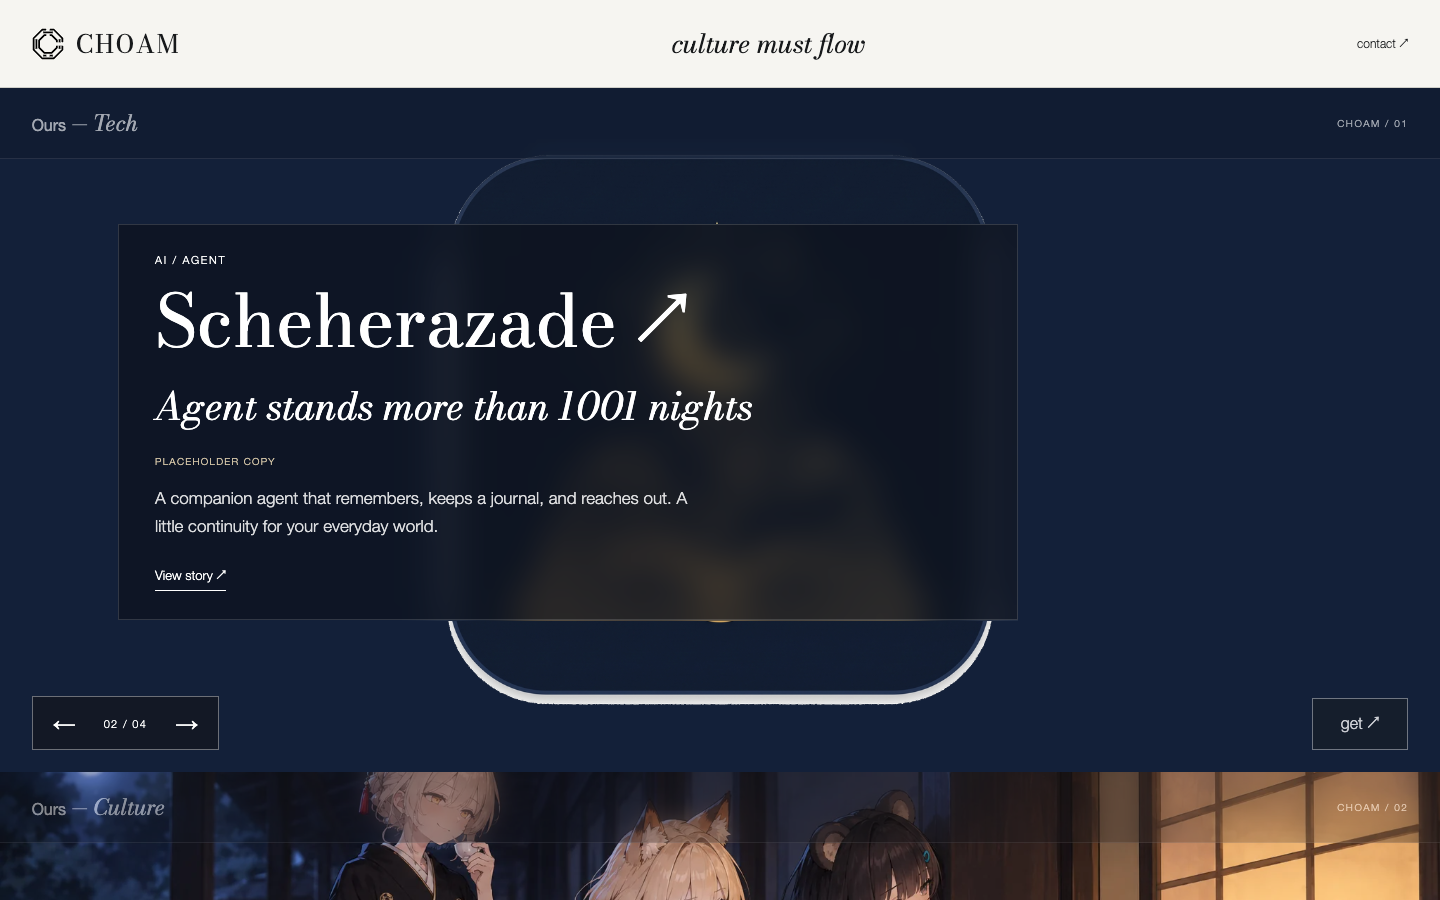
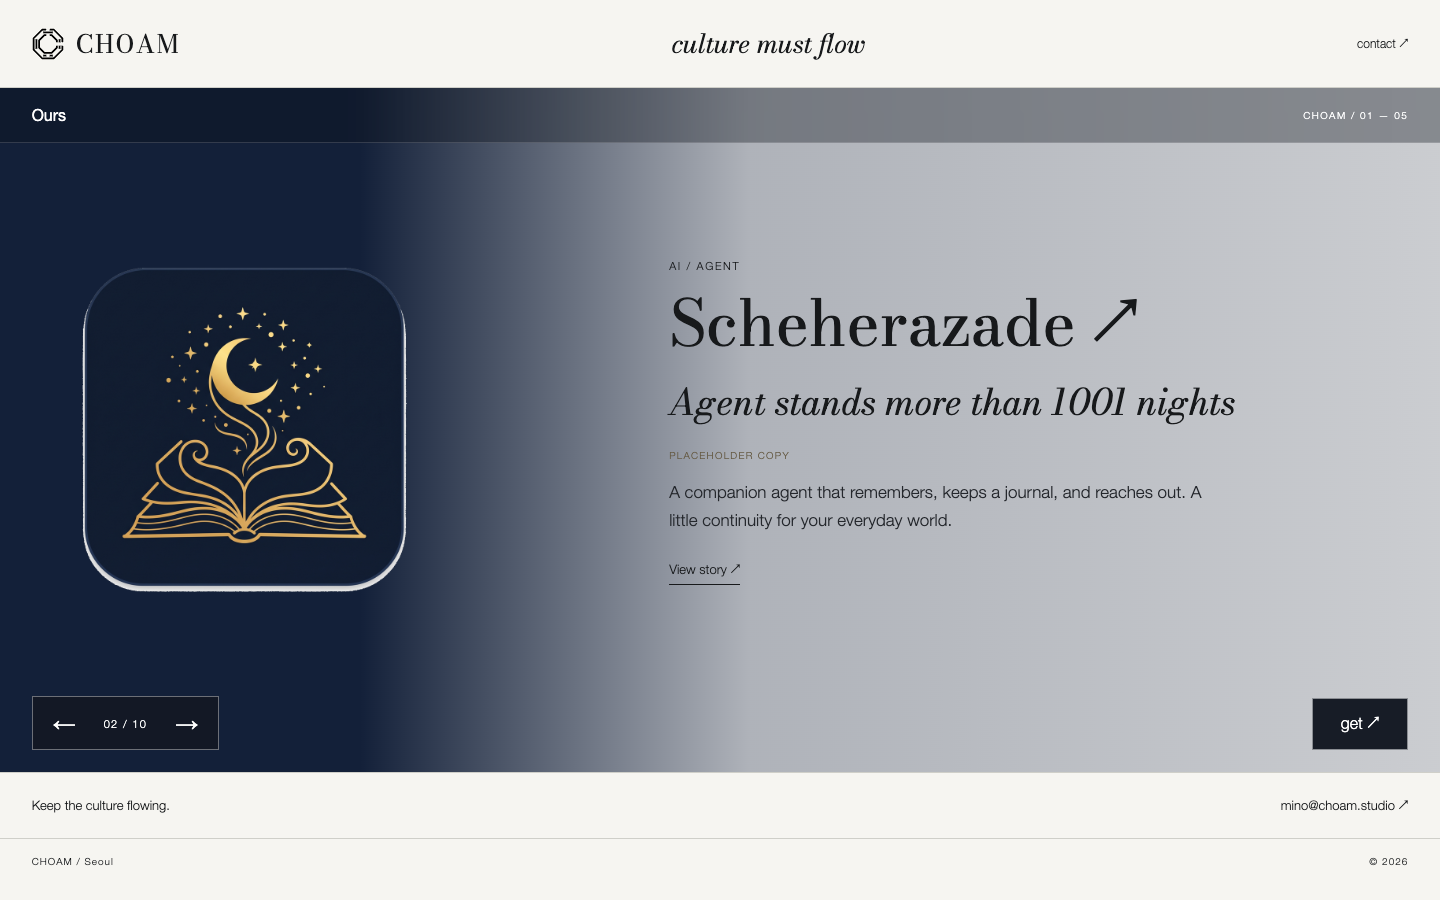
Unify Ours gallery and animate Scheherazade gradient story

diff --git a/index.html b/index.html
@@ -1,1 +1,1 @@
-<!doctype html><html lang="en"><head><meta charset="utf-8"><meta name="viewport" content="width=device-width,initial-scale=1"><title>CHOAM</title><meta name="description" content="culture must flow"><link rel="icon" href="assets/mark.svg"><link href="https://fonts.googleapis.com/css2?family=Bodoni+Moda:ital,wght@0,400;1,400&display=swap" rel="stylesheet"><link rel="stylesheet" href="style.css"></head><body><header class="bar"><a class="brand" href="./" aria-label="CHOAM home"><img src="assets/mark.svg" alt=""><span>CHOAM</span></a><p>culture must flow</p><a class="index-link" href="#contact">contact ↗</a></header><main id="ours"><section class="gallery" aria-label="Ours — Tech"><div class="gallery-heading"><h2>Ours <i>— Tech</i></h2><span>CHOAM / 01</span></div><div class="gallery-stage"><div class="track" tabindex="0" aria-label="Tech gallery. Use left and right arrow keys"><article class="panel art scheherazade" data-project="scheherazade"><a class="art-link" href="pages/scheherazade.html" aria-label="Explore Scheherazade"><img src="assets/scheherazade.png" alt="Scheherazade key visual" draggable="false"><div class="art-caption"><p>AI / Agent</p><h3>Scheherazade</h3><span>Explore ↗</span></div></a></article><article class="panel description" data-project="scheherazade"><img class="description-art scheherazade" src="assets/scheherazade.png" alt="" aria-hidden="true"><div class="description-copy"><p class="eyebrow">AI / Agent</p><h3><a href="pages/scheherazade.html">Scheherazade ↗</a></h3><p class="phrase">Agent stands more than 1001 nights</p><p class="placeholder">PLACEHOLDER COPY</p><p class="copy">A companion agent that remembers, keeps a journal, and reaches out. A little continuity for your everyday world.</p><a class="detail-link" href="pages/scheherazade.html">View story ↗</a></div></article><article class="panel art dat" data-project="dat"><a class="art-link" href="pages/dat.html" aria-label="Explore DAT"><span class="dat-mark" aria-hidden="true">DAT</span><div class="art-caption"><p>AI / Generative</p><h3>DAT</h3><span>Explore ↗</span></div></a></article><article class="panel description dat" data-project="dat"><span class="description-art dat-mark" aria-hidden="true">DAT</span><div class="description-copy"><p class="eyebrow">AI / Generative</p><h3><a href="pages/dat.html">DAT ↗</a></h3><p class="phrase">Illustration, in a new register</p><p class="placeholder">PLACEHOLDER COPY</p><p class="copy">A Krea LoRA for illustration generation. Explore a visual language, then make it your own.</p><a class="detail-link" href="pages/dat.html">View story ↗</a></div></article></div><div class="gallery-controls"><button class="prev" aria-label="Previous page">←</button><span class="count" aria-live="polite"></span><button class="next" aria-label="Next page">→</button></div><a class="action" hidden></a></div></section><section class="gallery" aria-label="Ours — Culture"><div class="gallery-heading"><h2>Ours <i>— Culture</i></h2><span>CHOAM / 02</span></div><div class="gallery-stage"><div class="track" tabindex="0" aria-label="Culture gallery. Use left and right arrow keys"><article class="panel art donguri-ryokan" data-project="donguri-ryokan"><a class="art-link" href="pages/donguri-ryokan.html" aria-label="Explore Donguri Ryokan"><img src="assets/ryokan_kv_C2.webp" alt="Donguri Ryokan key visual" draggable="false"><div class="art-caption"><p>Game / In development</p><h3>Donguri Ryokan</h3><span>Explore ↗</span></div></a></article><article class="panel description" data-project="donguri-ryokan"><img class="description-art donguri-ryokan" src="assets/ryokan_kv_C2.webp" alt="" aria-hidden="true"><div class="description-copy"><p class="eyebrow">Game / In development</p><h3><a href="pages/donguri-ryokan.html">Donguri Ryokan ↗</a></h3><p class="phrase">Stay a little longer</p><p class="placeholder">PLACEHOLDER COPY</p><p class="copy">A quiet inn, unexpected guests, and stories after dark. Make room for another kind of everyday.</p><a class="detail-link" href="pages/donguri-ryokan.html">View story ↗</a></div></article><article class="panel art donguri-restaurant" data-project="donguri-restaurant"><a class="art-link" href="pages/donguri-restaurant.html" aria-label="Explore Donguri Restaurant"><img src="assets/restaurant-keyart.png" alt="Donguri Restaurant key visual" draggable="false"><div class="art-caption"><p>Game / Play now</p><h3>Donguri Restaurant</h3><span>Explore ↗</span></div></a></article><article class="panel description" data-project="donguri-restaurant"><img class="description-art donguri-restaurant" src="assets/restaurant-keyart.png" alt="" aria-hidden="true"><div class="description-copy"><p class="eyebrow">Game / Play now</p><h3><a href="pages/donguri-restaurant.html">Donguri Restaurant ↗</a></h3><p class="phrase">Something good is on the table</p><p class="placeholder">PLACEHOLDER COPY</p><p class="copy">A small restaurant with a world of appetites. Cook, serve, and find your own rhythm.</p><a class="detail-link" href="pages/donguri-restaurant.html">View story ↗</a></div></article><article class="panel art seonjam" data-project="seonjam"><a class="art-link" href="pages/seonjam.html" aria-label="Explore Seonjam"><img src="assets/seonjam-main.webp" alt="Seonjam key visual" draggable="false"><div class="art-caption"><p>Visual novel / 선잠</p><h3>Seonjam</h3><span>Explore ↗</span></div></a></article><article class="panel description" data-project="seonjam"><img class="description-art seonjam" src="assets/seonjam-main.webp" alt="" aria-hidden="true"><div class="description-copy"><p class="eyebrow">Visual novel / 선잠</p><h3><a href="pages/seonjam.html">Seonjam ↗</a></h3><p class="phrase">Between waking and dreaming</p><p class="placeholder">PLACEHOLDER COPY</p><p class="copy">A visual novel about the moments we almost miss. Meet familiar faces in an unfamiliar light.</p><a class="detail-link" href="pages/seonjam.html">View story ↗</a></div></article></div><div class="gallery-controls"><button class="prev" aria-label="Previous page">←</button><span class="count" aria-live="polite"></span><button class="next" aria-label="Next page">→</button></div><a class="action" hidden></a></div></section></main><section id="contact" class="contact"><span>Keep the culture flowing.</span><a href="mailto:mino@choam.studio">mino@choam.studio ↗</a></section><footer class="foot"><span>CHOAM / Seoul</span><span>© 2026</span></footer><script src="main.js"></script></body></html>
+<!doctype html><html lang="en"><head><meta charset="utf-8"><meta name="viewport" content="width=device-width,initial-scale=1"><title>CHOAM</title><meta name="description" content="culture must flow"><link rel="icon" href="assets/mark.svg"><link href="https://fonts.googleapis.com/css2?family=Bodoni+Moda:ital,wght@0,400;1,400&display=swap" rel="stylesheet"><link rel="stylesheet" href="style.css"></head><body><header class="bar"><a class="brand" href="./" aria-label="CHOAM home"><img src="assets/mark.svg" alt=""><span>CHOAM</span></a><p>culture must flow</p><a class="index-link" href="#contact">contact ↗</a></header><main id="ours"><section class="gallery" aria-label="Ours"><div class="gallery-heading"><h2>Ours</h2><span class="project-count">CHOAM / 01</span></div><div class="gallery-stage"><div class="track" tabindex="0" aria-label="Ours gallery. Use left and right arrow keys"><article class="panel art scheherazade" data-project="scheherazade"><a class="art-link" href="pages/scheherazade.html" aria-label="Explore Scheherazade"><img src="assets/scheherazade.png" alt="Scheherazade key visual" draggable="false"><div class="art-caption"><p>AI / Agent</p><h3>Scheherazade</h3><span>Explore ↗</span></div></a></article><article class="panel description" data-project="scheherazade"><img class="description-art scheherazade" src="assets/scheherazade.png" alt="" aria-hidden="true"><div class="description-copy"><p class="eyebrow">AI / Agent</p><h3><a href="pages/scheherazade.html">Scheherazade ↗</a></h3><p class="phrase">Agent stands more than 1001 nights</p><p class="placeholder">PLACEHOLDER COPY</p><p class="copy">A companion agent that remembers, keeps a journal, and reaches out. A little continuity for your everyday world.</p><a class="detail-link" href="pages/scheherazade.html">View story ↗</a></div></article><article class="panel art dat" data-project="dat"><a class="art-link" href="pages/dat.html" aria-label="Explore DAT"><span class="dat-mark" aria-hidden="true">DAT</span><div class="art-caption"><p>AI / Generative</p><h3>DAT</h3><span>Explore ↗</span></div></a></article><article class="panel description dat" data-project="dat"><span class="description-art dat-mark" aria-hidden="true">DAT</span><div class="description-copy"><p class="eyebrow">AI / Generative</p><h3><a href="pages/dat.html">DAT ↗</a></h3><p class="phrase">Illustration, in a new register</p><p class="placeholder">PLACEHOLDER COPY</p><p class="copy">A Krea LoRA for illustration generation. Explore a visual language, then make it your own.</p><a class="detail-link" href="pages/dat.html">View story ↗</a></div></article><article class="panel art donguri-ryokan" data-project="donguri-ryokan"><a class="art-link" href="pages/donguri-ryokan.html" aria-label="Explore Donguri Ryokan"><img src="assets/ryokan_kv_C2.webp" alt="Donguri Ryokan key visual" draggable="false"><div class="art-caption"><p>Game / In development</p><h3>Donguri Ryokan</h3><span>Explore ↗</span></div></a></article><article class="panel description" data-project="donguri-ryokan"><img class="description-art donguri-ryokan" src="assets/ryokan_kv_C2.webp" alt="" aria-hidden="true"><div class="description-copy"><p class="eyebrow">Game / In development</p><h3><a href="pages/donguri-ryokan.html">Donguri Ryokan ↗</a></h3><p class="phrase">Stay a little longer</p><p class="placeholder">PLACEHOLDER COPY</p><p class="copy">A quiet inn, unexpected guests, and stories after dark. Make room for another kind of everyday.</p><a class="detail-link" href="pages/donguri-ryokan.html">View story ↗</a></div></article><article class="panel art donguri-restaurant" data-project="donguri-restaurant"><a class="art-link" href="pages/donguri-restaurant.html" aria-label="Explore Donguri Restaurant"><img src="assets/restaurant-keyart.png" alt="Donguri Restaurant key visual" draggable="false"><div class="art-caption"><p>Game / Play now</p><h3>Donguri Restaurant</h3><span>Explore ↗</span></div></a></article><article class="panel description" data-project="donguri-restaurant"><img class="description-art donguri-restaurant" src="assets/restaurant-keyart.png" alt="" aria-hidden="true"><div class="description-copy"><p class="eyebrow">Game / Play now</p><h3><a href="pages/donguri-restaurant.html">Donguri Restaurant ↗</a></h3><p class="phrase">Something good is on the table</p><p class="placeholder">PLACEHOLDER COPY</p><p class="copy">A small restaurant with a world of appetites. Cook, serve, and find your own rhythm.</p><a class="detail-link" href="pages/donguri-restaurant.html">View story ↗</a></div></article><article class="panel art seonjam" data-project="seonjam"><a class="art-link" href="pages/seonjam.html" aria-label="Explore Seonjam"><img src="assets/seonjam-main.webp" alt="Seonjam key visual" draggable="false"><div class="art-caption"><p>Visual novel / 선잠</p><h3>Seonjam</h3><span>Explore ↗</span></div></a></article><article class="panel description" data-project="seonjam"><img class="description-art seonjam" src="assets/seonjam-main.webp" alt="" aria-hidden="true"><div class="description-copy"><p class="eyebrow">Visual novel / 선잠</p><h3><a href="pages/seonjam.html">Seonjam ↗</a></h3><p class="phrase">Between waking and dreaming</p><p class="placeholder">PLACEHOLDER COPY</p><p class="copy">A visual novel about the moments we almost miss. Meet familiar faces in an unfamiliar light.</p><a class="detail-link" href="pages/seonjam.html">View story ↗</a></div></article></div><div class="gallery-controls"><button class="prev" aria-label="Previous page">←</button><span class="count" aria-live="polite"></span><button class="next" aria-label="Next page">→</button></div><a class="action" hidden></a></div></section></main><section id="contact" class="contact"><span>Keep the culture flowing.</span><a href="mailto:mino@choam.studio">mino@choam.studio ↗</a></section><footer class="foot"><span>CHOAM / Seoul</span><span>© 2026</span></footer><script src="main.js"></script></body></html>

diff --git a/style.css b/style.css
@@ -16,3 +16,16 @@
 .description .eyebrow{margin-top:0}
 .description .detail-link{margin-top:10px}
 @media(max-width:600px){.description{padding:74px 16px 92px}.description-copy{margin:0;padding:20px 18px}.description h3{font-size:36px;margin:12px 0}.description .phrase{font-size:23px;margin:14px 0}.description .placeholder{font-size:9px;margin-top:16px}.description .copy{font-size:14px;line-height:1.55}.description .detail-link{margin-top:8px}.description-art.donguri-ryokan{object-position:65% center}}
+
+/* Scheherazade: the icon stays left; its story arrives from the right. */
+.art.scheherazade,.description[data-project="scheherazade"]{background:#132039}
+.art.scheherazade img,.description[data-project="scheherazade"] .description-art{position:absolute;inset:auto;left:3%;top:50%;transform:translateY(-50%);width:28%;height:auto;max-height:65%;object-fit:contain;background:transparent}
+.description[data-project="scheherazade"]{padding:84px var(--pad) 100px}
+.description[data-project="scheherazade"]::before{content:'';position:absolute;inset:0;background:linear-gradient(90deg,rgba(235,235,235,0) 25%,rgba(235,235,235,.72) 52%,rgba(235,235,235,.85) 100%);opacity:0;transform:translateX(8%);transition:opacity .55s ease,transform .55s ease}
+.description[data-project="scheherazade"] .description-copy{margin:0 0 0 45%;width:55%;max-width:none;padding:24px 18px;background:none;border:0;backdrop-filter:none;-webkit-backdrop-filter:none;color:#17191b;opacity:0;transform:translateX(40px);transition:opacity .55s ease,transform .55s ease}
+.description[data-project="scheherazade"].is-active::before,.description[data-project="scheherazade"].is-active .description-copy{opacity:1;transform:translateX(0)}
+.description[data-project="scheherazade"] h3{font-size:clamp(36px,4.4vw,64px)}
+.description[data-project="scheherazade"] .phrase{font-size:clamp(24px,2.5vw,36px)}
+.description[data-project="scheherazade"] .copy{color:#25282d}
+.description[data-project="scheherazade"] .placeholder{color:#665b45}
+@media(max-width:600px){.art.scheherazade img,.description[data-project="scheherazade"] .description-art{left:16px;top:80px;width:130px;height:130px;max-height:none;transform:none}.description[data-project="scheherazade"]{align-items:flex-end;padding:74px 16px 92px}.description[data-project="scheherazade"]::before{background:linear-gradient(0deg,rgba(235,235,235,.9) 0%,rgba(235,235,235,.85) 55%,rgba(235,235,235,0) 90%);transform:translateY(8%)}.description[data-project="scheherazade"] .description-copy{margin:0;width:100%;padding:16px 0 0;transform:translateY(28px)}.description[data-project="scheherazade"].is-active::before,.description[data-project="scheherazade"].is-active .description-copy{transform:translateY(0)}.description[data-project="scheherazade"] h3{font-size:36px}.description[data-project="scheherazade"] .phrase{font-size:23px}}

diff --git a/main.js b/main.js
@@ -10,6 +10,7 @@ const galleries = [...document.querySelectorAll('.gallery')].map(gallery => {
     prev.disabled = index === 0; next.disabled = index === panels.length - 1;
     count.textContent = `${String(index + 1).padStart(2, '0')} / ${String(panels.length).padStart(2, '0')}`;
     const project = panels[index].dataset.project, target = actions[project];
+    gallery.querySelector('.project-count').textContent = `CHOAM / ${String(Math.floor(index / 2) + 1).padStart(2, '0')} — 05`;
     action.hidden = !target;
     if (target) { action.textContent = `${target[0]} ↗`; action.href = target[1]; action.setAttribute('aria-label', `${target[0]} ${project}`); }
     panels.forEach((panel, i) => panel.querySelectorAll('a').forEach(link => { link.tabIndex = i === index ? 0 : -1; }));
@@ -22,7 +23,9 @@ const galleries = [...document.querySelectorAll('.gallery')].map(gallery => {
   [prev, next].forEach(button => button.addEventListener('pointerdown', event => event.preventDefault()));
   prev.onclick = () => go(-1); next.onclick = () => go(1);
   track.addEventListener('scroll', sync, {passive:true});
-  track.addEventListener('scrollend', () => { current = at(); sync(); });
+  const activate = () => panels.forEach((panel, i) => panel.classList.toggle('is-active', i === at()));
+  track.addEventListener('scrollend', () => { current = at(); sync(); activate(); });
+  activate();
   let width = track.clientWidth;
   new ResizeObserver(() => {
     const nextWidth = track.clientWidth;
